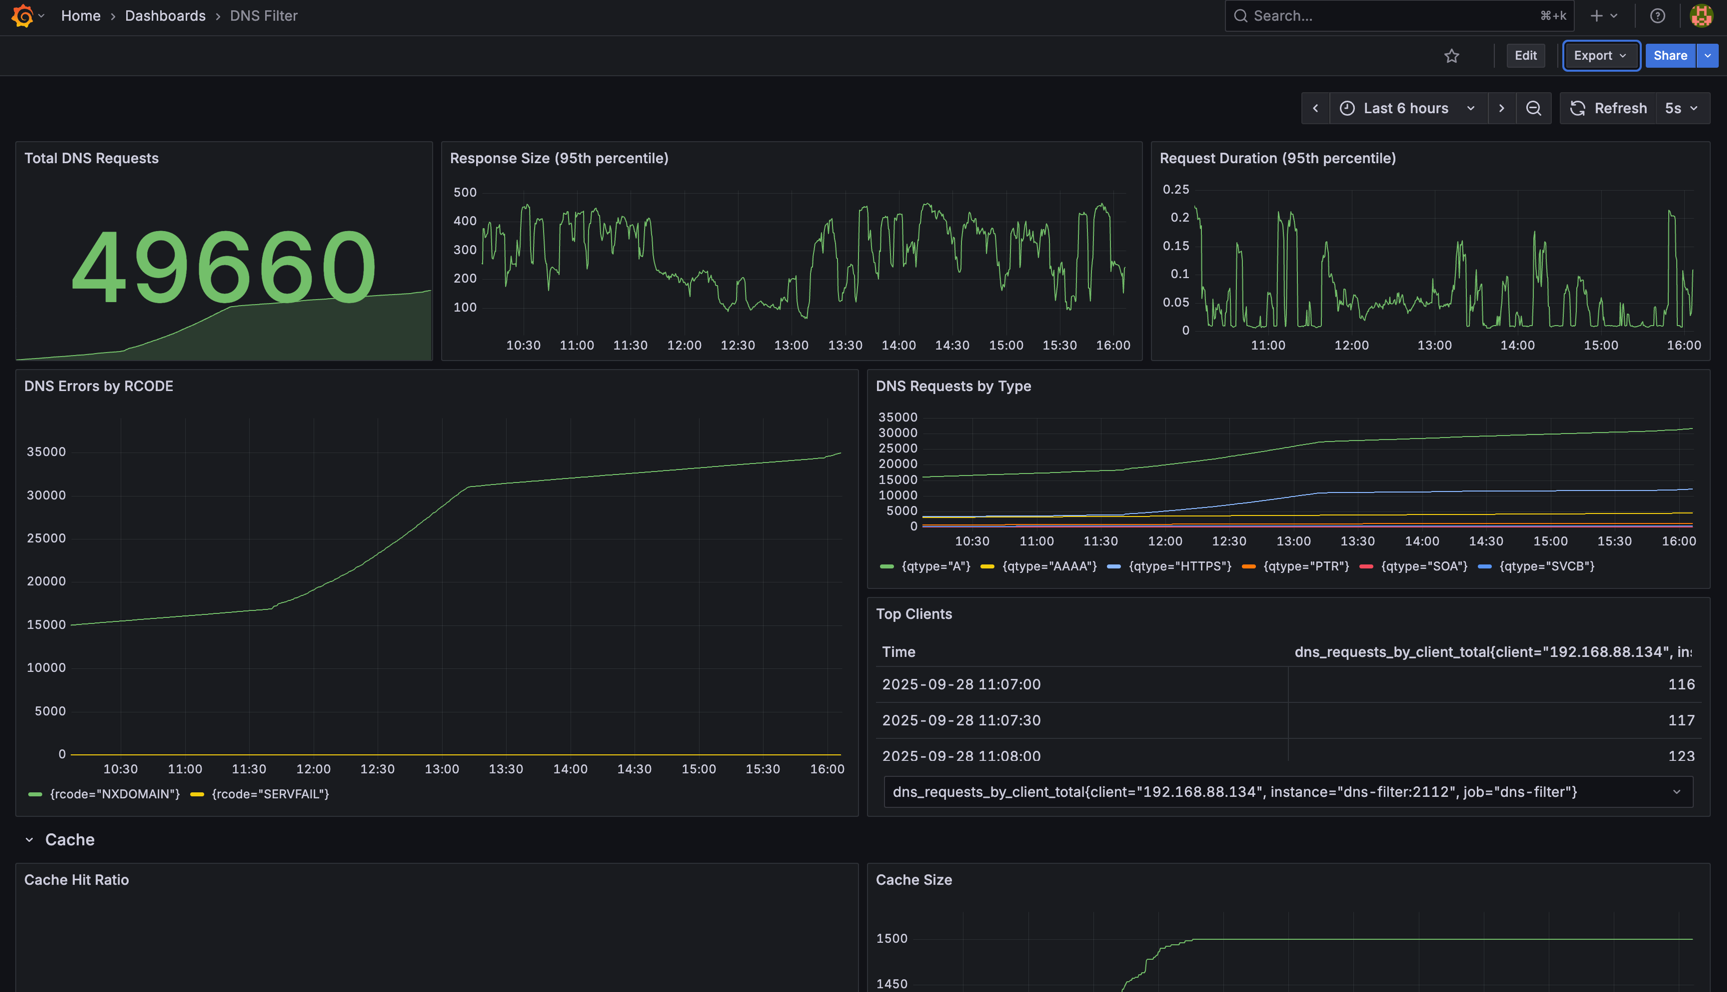
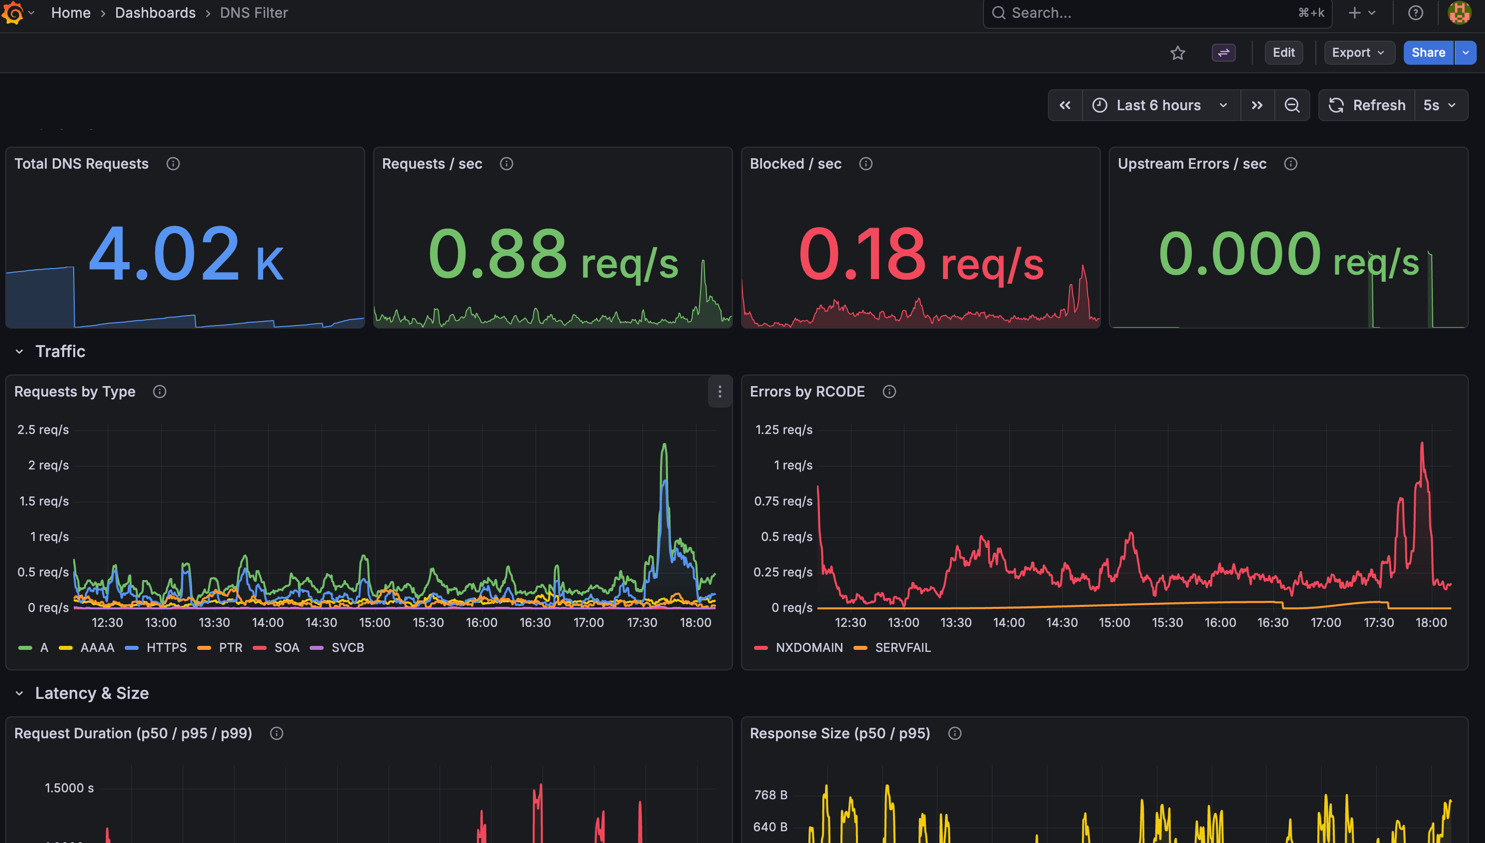
change readme

diff --git a/README.md b/README.md
@@ -7,8 +7,6 @@
 ╚═════╝ ╚═╝  ╚═══╝╚══════╝      ╚═╝     ╚═╝╚══════╝╚═╝   ╚══════╝╚═╝  ╚═╝
 ```
 
-# DNS Filter
-
 [![Tests](https://github.com/alextorq/dns-filter/actions/workflows/test.yml/badge.svg)](https://github.com/alextorq/dns-filter/actions/workflows/test.yml)
 [![codecov](https://codecov.io/gh/alextorq/dns-filter/branch/main/graph/badge.svg)](https://codecov.io/gh/alextorq/dns-filter)
 [![Go Report Card](https://goreportcard.com/badge/github.com/alextorq/dns-filter)](https://goreportcard.com/report/github.com/alextorq/dns-filter)
@@ -19,6 +17,12 @@
 
 it is simple dns service for block advertisement and malicious
 you need seed block domains and set it server like dns in your network
+
+![img](docs/main.png)
+![img](docs/domains.png)
+![img](docs/grafana-dashboard.png)
+
+
 
 ```mermaid
 sequenceDiagram
@@ -160,10 +164,6 @@ git-ignored, so secrets don't end up in the repo.
 - Prometheus metrics endpoint
 - Loki logging integration
 - Grafana dashboards in `docs/`
-
-![img](docs/main.png)
-![img](docs/domains.png)
-![img](docs/grafana-dashboard.png)
 
 
 ## License